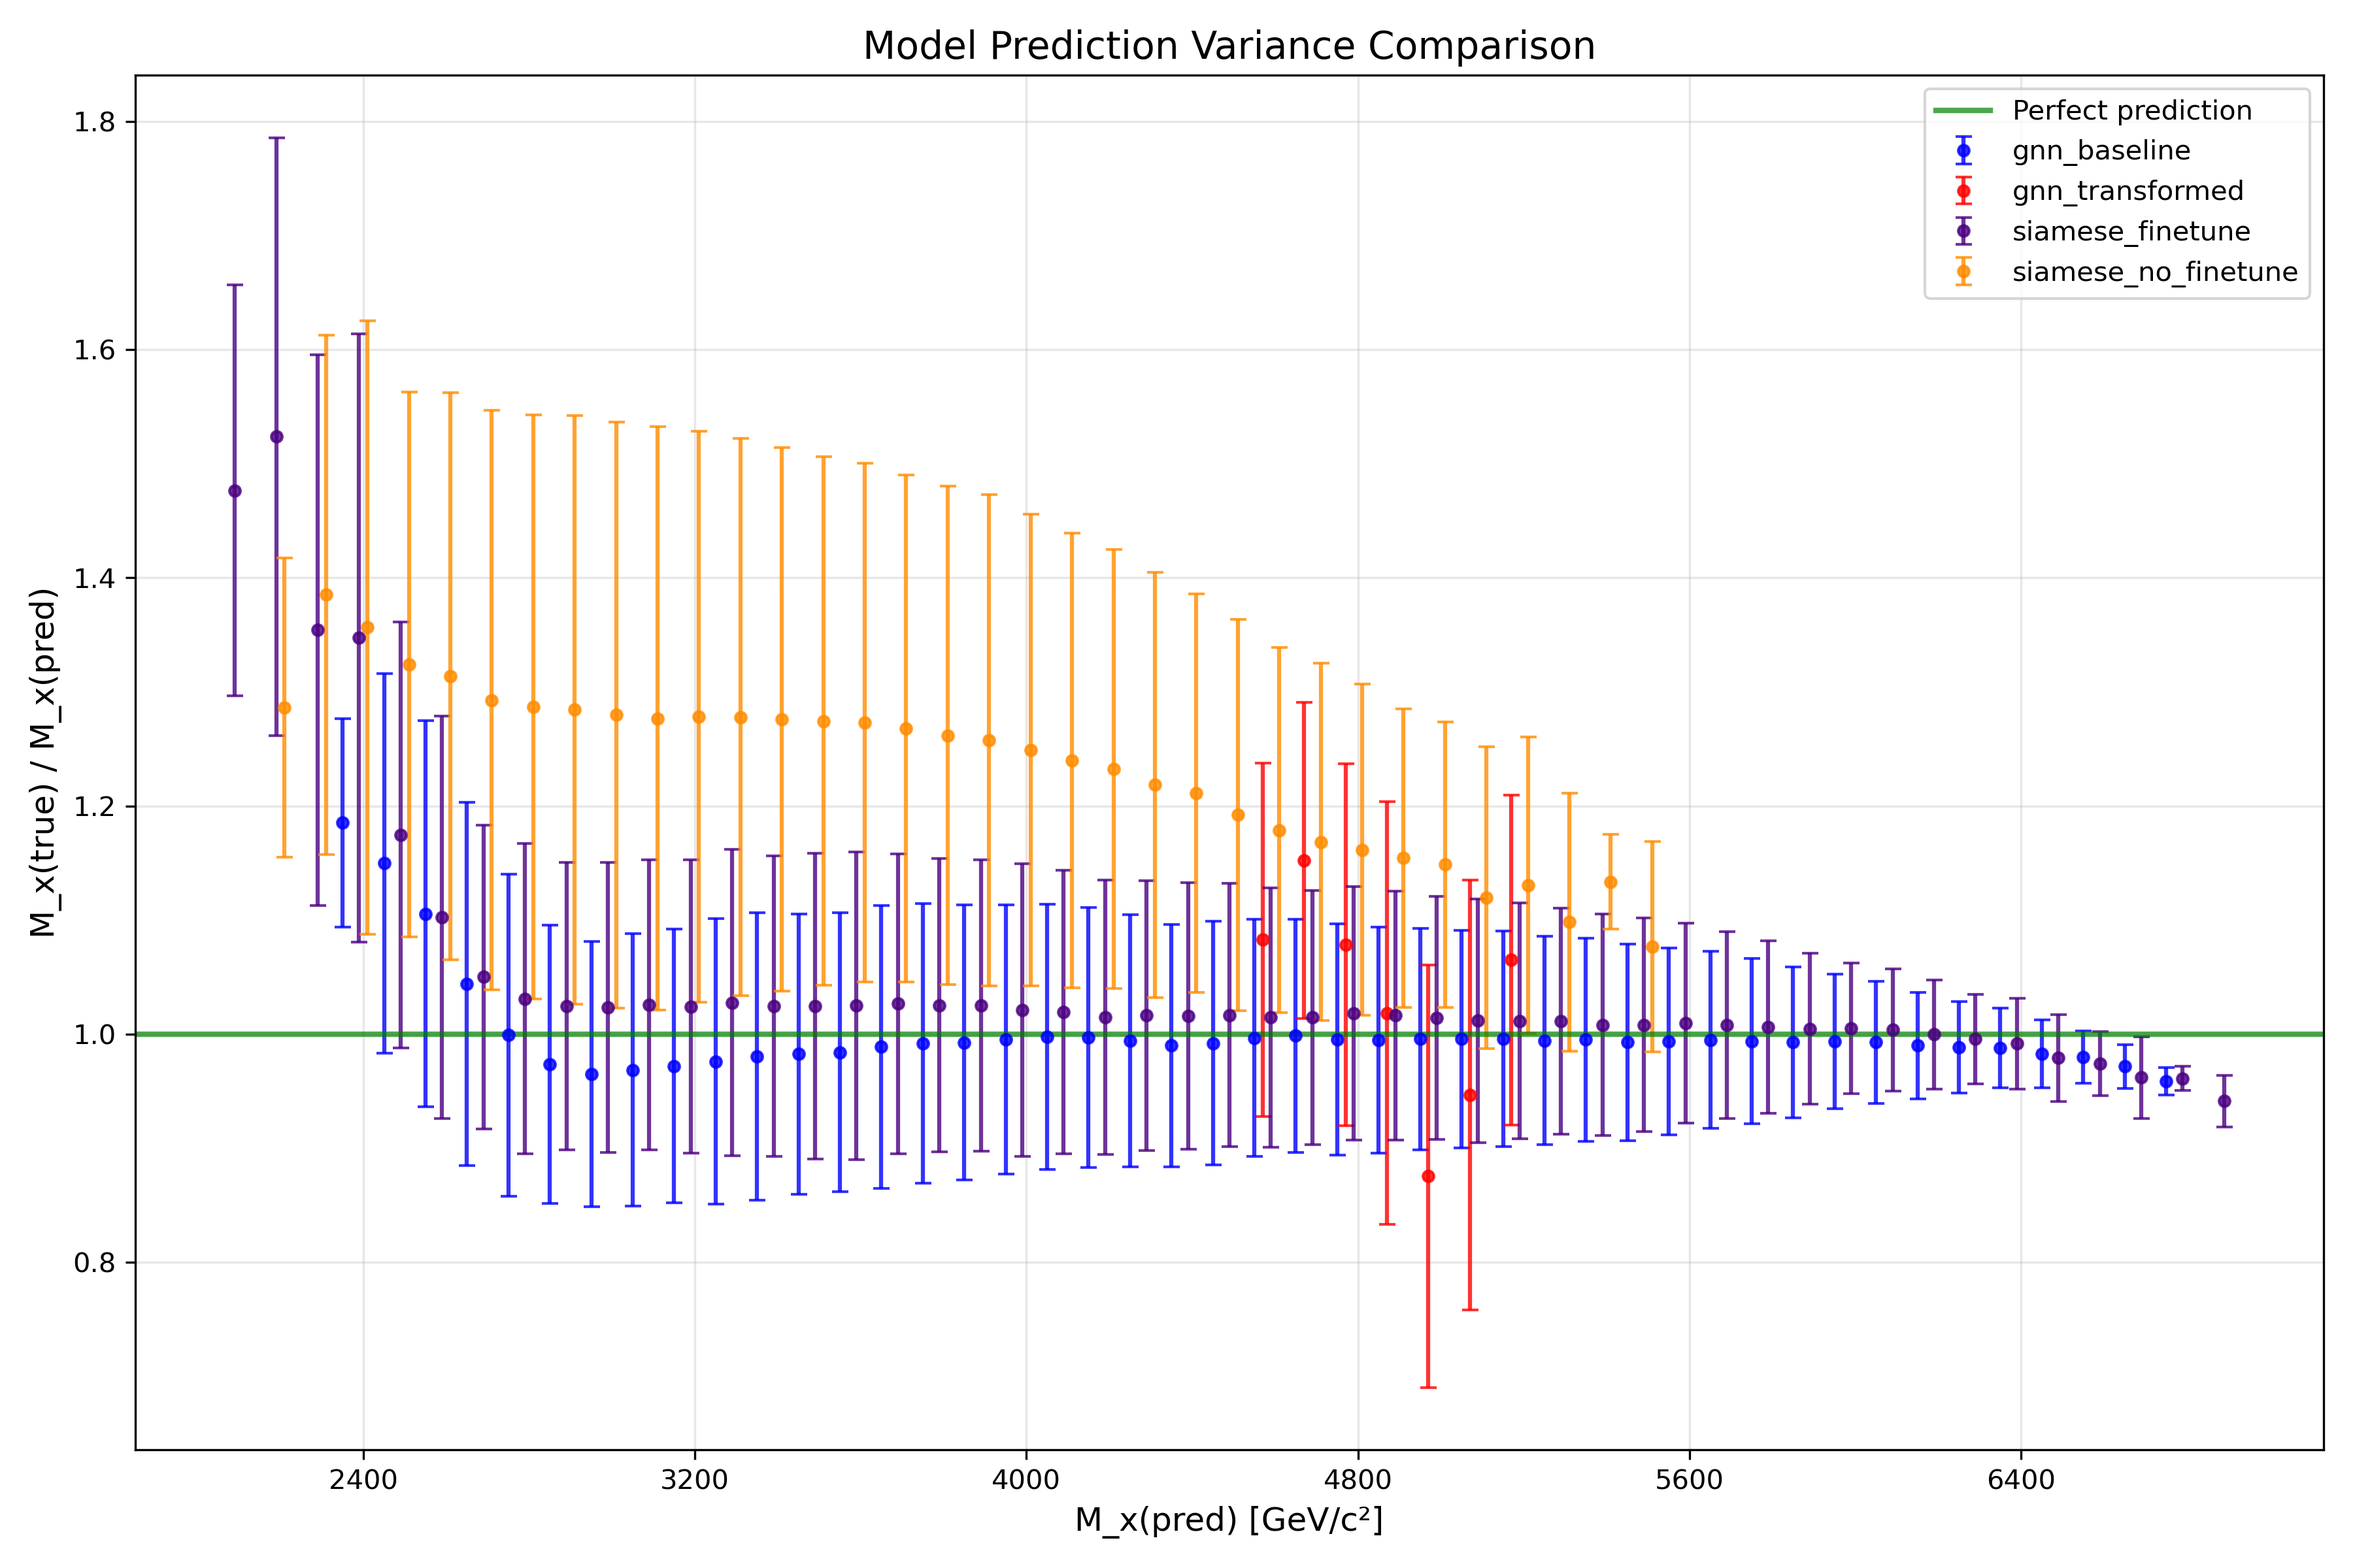
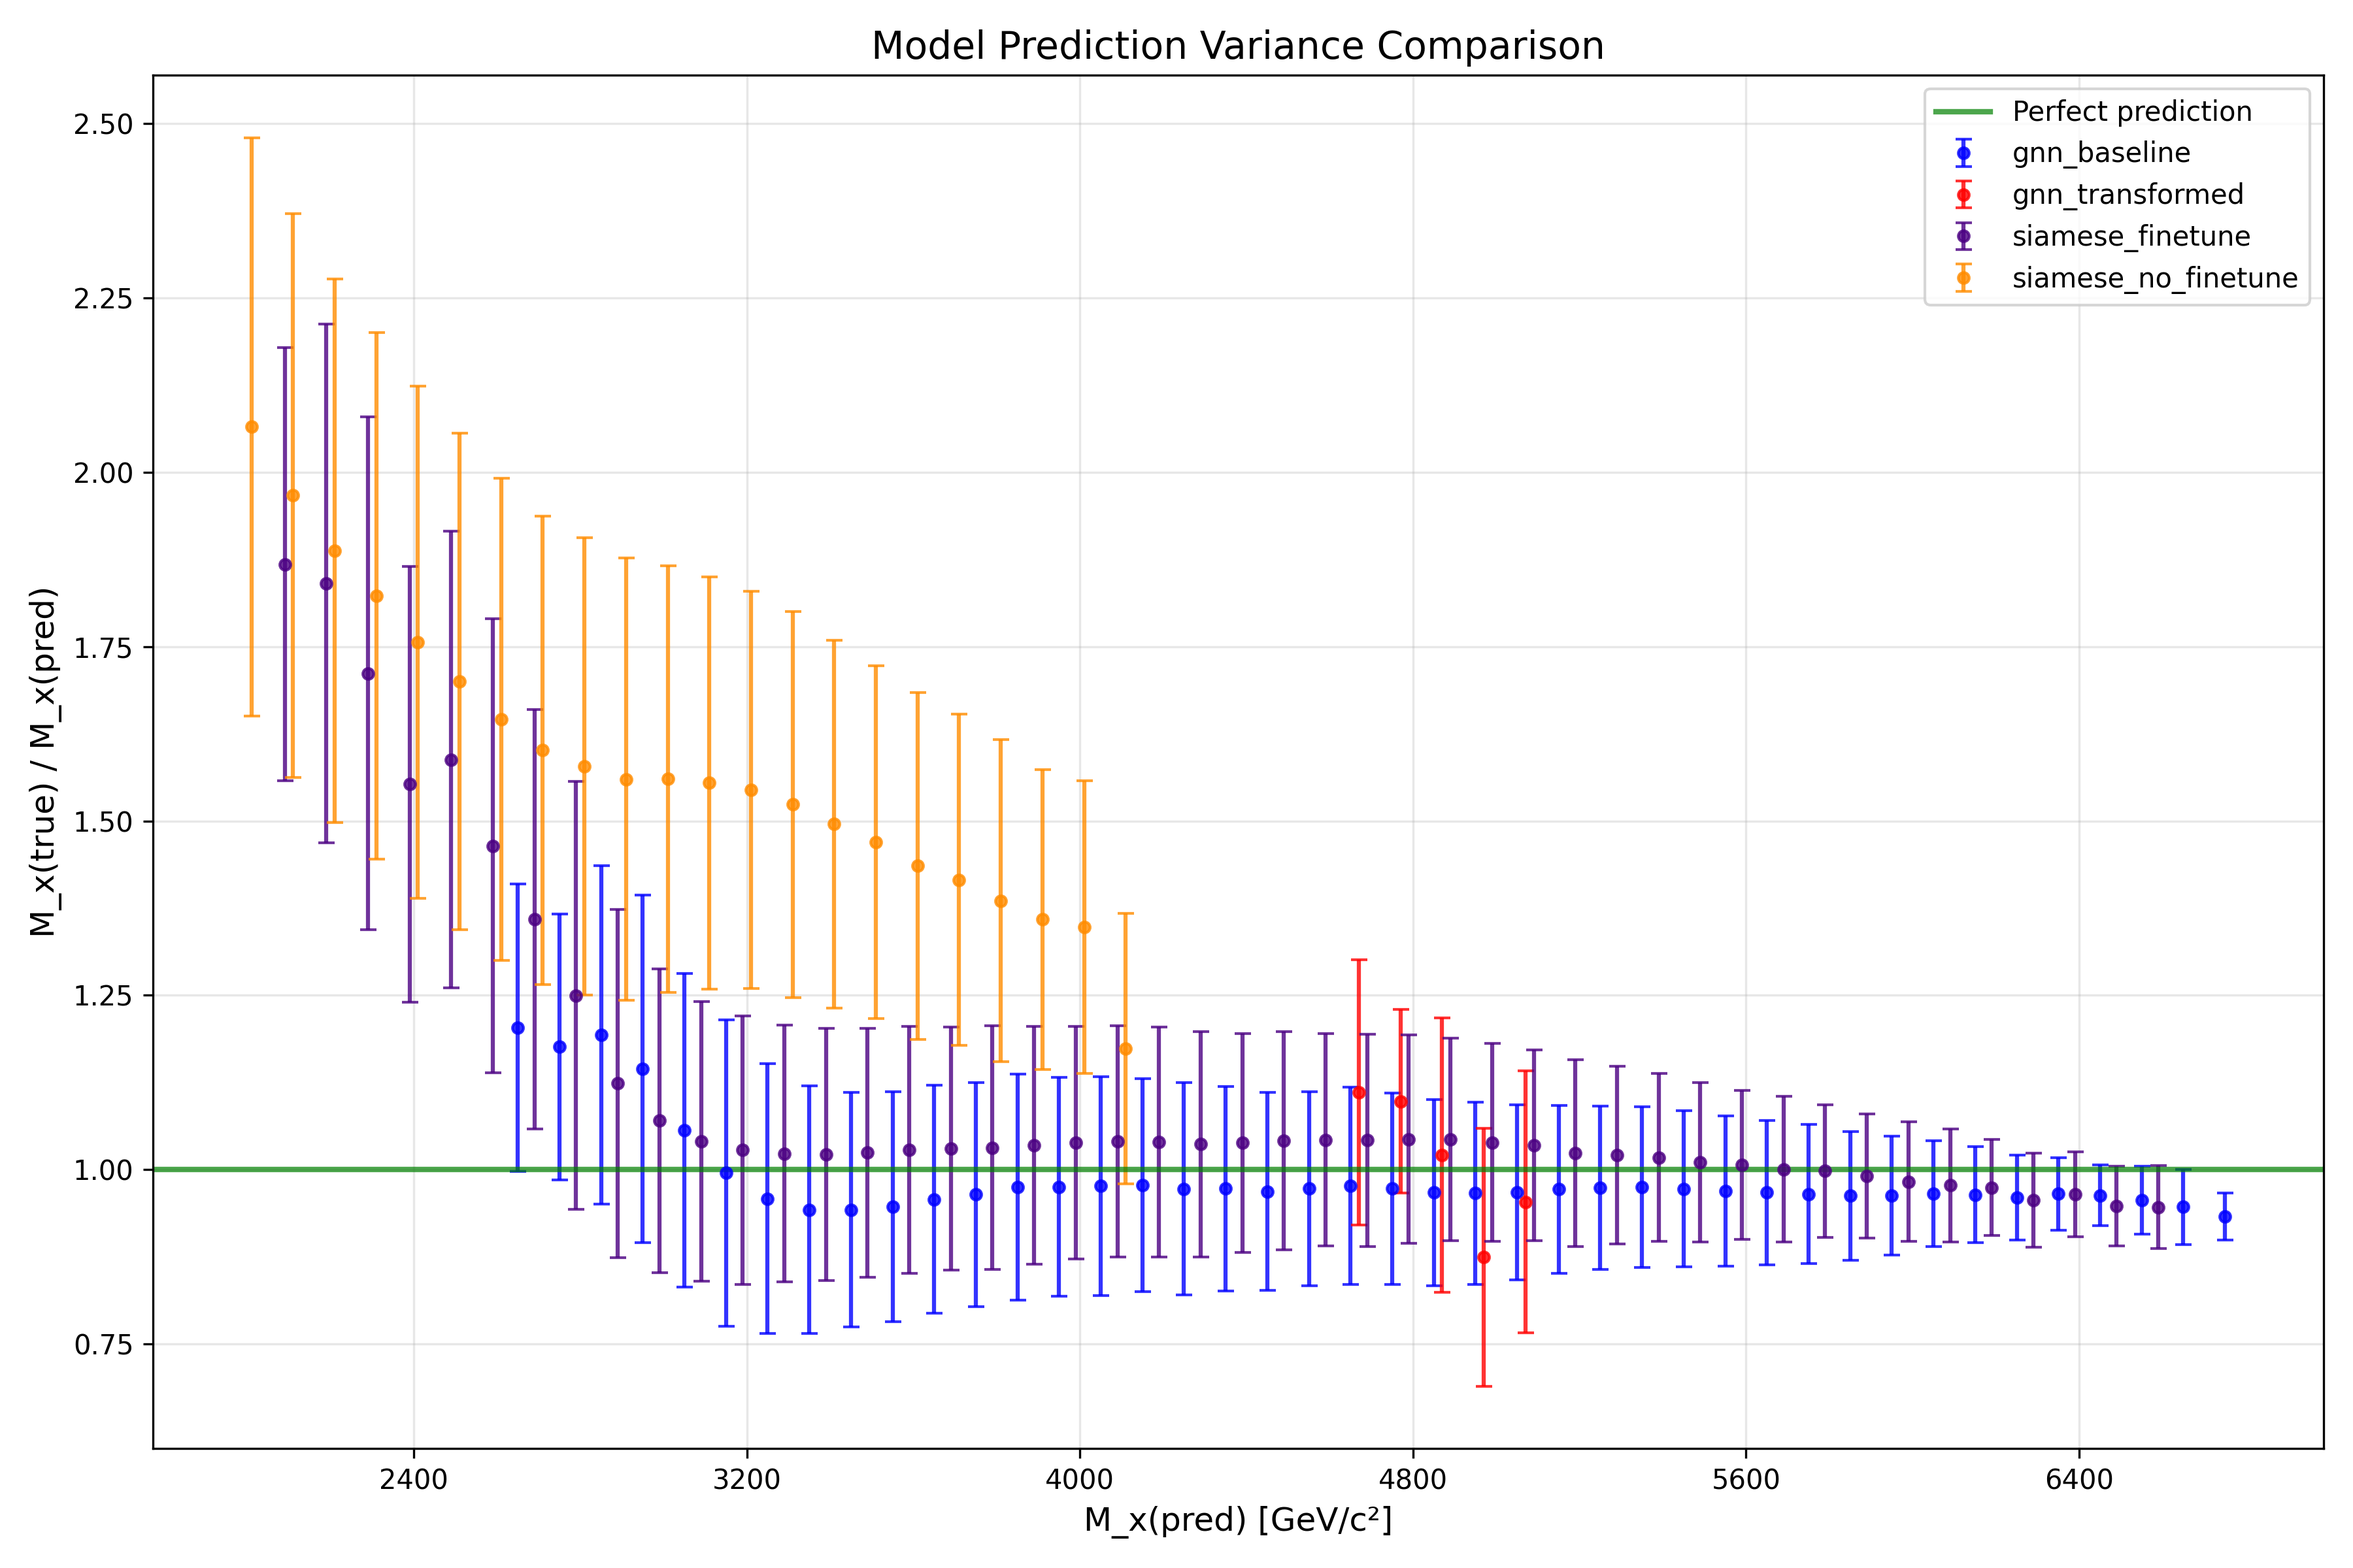
Increase strength of transformations

diff --git a/transformation.py b/transformation.py
@@ -27,39 +27,50 @@ class TransformationType(Enum):
     DELETE_PARTICLE = "delete_particle"
 
 
-def _delete_particle(x):
+def _delete_particle(x, **kwargs):
     """
-    Randomly delete a particle from the last dimension using vectorized operations
+    Randomly delete particles from the last dimension using vectorized operations
 
     Args:
         x (tf.Tensor): Shape of (None, num_features, num_particles)
+        **kwargs: Keyword arguments. Supports:
+            - num_particles_to_delete (int): Number of particles to delete (default: 1)
 
     Returns:
-        tf.Tensor: Shape of (None, num_features, num_particles - 1)
+        tf.Tensor: Shape of (None, num_features, num_particles - num_particles_to_delete)
     """
+    num_particles_to_delete = kwargs.get("num_particles_to_delete", 1)
+
     x_np = x.numpy()
     batch_size, num_features, num_particles = x_np.shape
 
-    indices_to_delete = np.random.randint(0, num_particles, size=batch_size)
+    # Ensure we don't try to delete more particles than available
+    num_to_delete = min(num_particles_to_delete, num_particles - 1)
 
-    result = np.zeros((batch_size, num_features, num_particles - 1))
+    result = np.zeros((batch_size, num_features, num_particles - num_to_delete))
 
     for i in range(batch_size):
-        idx = indices_to_delete[i]
+        # Randomly select multiple unique indices to delete
+        indices_to_delete = np.random.choice(
+            num_particles, size=num_to_delete, replace=False
+        )
 
-        # Create a mask for the randomly selected particle
+        # Create a mask for the randomly selected particles
         mask = np.ones(num_particles, dtype=bool)
-        mask[idx] = False
-        # Apply the mask to keep all particles except the one at idx
-        keep_indices = np.where(mask)[0]
-        result[i] = x_np[i][:, keep_indices]
+        mask[indices_to_delete] = False
+        # Apply the mask to keep all particles except those in indices_to_delete
+        result[i] = x_np[i][:, mask]
 
     return tf.convert_to_tensor(result)
 
 
-def _identity(x):
+def _identity(x, **kwargs):
     """
     No transformation
+
+    Args:
+        x: Input tensor
+        **kwargs: Ignored keyword arguments (for consistency with other transformations)
     """
     return x
 
@@ -72,7 +83,7 @@ TRANSFORMATION_MAP = {
 
 
 class ViewPairsGenerator:
-    def __init__(self, dataset, transformations=None):
+    def __init__(self, dataset, transformations=None, transformation_kwargs=None):
         """
         Constructor
 
@@ -80,8 +91,12 @@ class ViewPairsGenerator:
             dataset (tf.data.dataset): A Tensorflow Dataset that's batched
             transformations (list of TransformationType): List of transformations to apply.
                 If None, uses all available transformations.
+            transformation_kwargs (dict): Optional keyword arguments to pass to all transformation functions.
+                Each transformation will extract the parameters it needs.
+                Example: {'num_particles_to_delete': 3}
         """
         self.dataset = dataset
+        self.transformation_kwargs = transformation_kwargs or {}
 
         # Build transformation list based on user input
         if transformations is None:
@@ -96,9 +111,10 @@ class ViewPairsGenerator:
         for x_batch, y_batch in self.dataset:
             # Create two views with random transformations
             transform1 = np.random.choice(self.TRANSFORMATIONS)
-            view1 = transform1(x_batch)
+            view1 = transform1(x_batch, **self.transformation_kwargs)
+
             transform2 = np.random.choice(self.TRANSFORMATIONS)
-            view2 = transform2(x_batch)
+            view2 = transform2(x_batch, **self.transformation_kwargs)
 
             # Yield transformed views and original labels
             yield ((view1, view2), y_batch)
@@ -109,7 +125,7 @@ class ViewTransformedGenerator:
     Data generator that applies random transformations to create transformed views
     """
 
-    def __init__(self, dataset, transformations=None):
+    def __init__(self, dataset, transformations=None, transformation_kwargs=None):
         """
         Constructor
 
@@ -119,8 +135,12 @@ class ViewTransformedGenerator:
                 (None, 1) for y.
             transformations (list of TransformationType): List of transformations to apply.
                 If None, uses all available transformations.
+            transformation_kwargs (dict): Optional keyword arguments to pass to all transformation functions.
+                Each transformation will extract the parameters it needs.
+                Example: {'num_particles_to_delete': 3}
         """
         self.dataset = dataset
+        self.transformation_kwargs = transformation_kwargs or {}
 
         # Build transformation list based on user input
         if transformations is None:
@@ -133,13 +153,15 @@ class ViewTransformedGenerator:
         for x_batch, y_batch in self.dataset:
             # Create a view with a random transformation
             transform = np.random.choice(self.TRANSFORMATIONS)
-            transformed_view = transform(x_batch)
+            transformed_view = transform(x_batch, **self.transformation_kwargs)
 
             # Yield transformed view and original labels
             yield (transformed_view, y_batch)
 
 
-def create_transformed_pairs_dataset(X, y, batchsize, n_features, transformations=None):
+def create_transformed_pairs_dataset(
+    X, y, batchsize, n_features, transformations=None, transformation_kwargs=None
+):
     """
     Create a TensorFlow dataset with transformed pairs for contrastive learning
 
@@ -150,6 +172,9 @@ def create_transformed_pairs_dataset(X, y, batchsize, n_features, transformation
         n_features: Number of features
         transformations (list of TransformationType): List of transformations to apply.
             If None, uses all available transformations.
+        transformation_kwargs (dict): Optional keyword arguments to pass to all transformation functions.
+            Each transformation will extract the parameters it needs.
+            Example: {'num_particles_to_delete': 3}
 
     Returns:
         tf.data.Dataset: A repeating dataset of transformed pairs
@@ -157,7 +182,11 @@ def create_transformed_pairs_dataset(X, y, batchsize, n_features, transformation
     # Create TensorFlow datasets
     dataset = tf.data.Dataset.from_tensor_slices((X, y)).batch(batchsize)
 
-    view_pairs_generator = ViewPairsGenerator(dataset, transformations=transformations)
+    view_pairs_generator = ViewPairsGenerator(
+        dataset,
+        transformations=transformations,
+        transformation_kwargs=transformation_kwargs,
+    )
 
     output_signature = (
         (
@@ -174,7 +203,9 @@ def create_transformed_pairs_dataset(X, y, batchsize, n_features, transformation
     return transformed_dataset.repeat()
 
 
-def create_transformed_dataset(X, y, batchsize, n_features, transformations=None):
+def create_transformed_dataset(
+    X, y, batchsize, n_features, transformations=None, transformation_kwargs=None
+):
     """
     Create a TensorFlow dataset with random transformations
 
@@ -185,6 +216,9 @@ def create_transformed_dataset(X, y, batchsize, n_features, transformations=None
         n_features: Number of features
         transformations (list of TransformationType): List of transformations to apply.
             If None, uses all available transformations.
+        transformation_kwargs (dict): Optional keyword arguments to pass to all transformation functions.
+            Each transformation will extract the parameters it needs.
+            Example: {'num_particles_to_delete': 3}
 
     Returns:
         tf.data.Dataset: A repeating dataset of transformed data
@@ -193,7 +227,9 @@ def create_transformed_dataset(X, y, batchsize, n_features, transformations=None
     dataset = tf.data.Dataset.from_tensor_slices((X, y)).batch(batchsize)
 
     view_transformed_generator = ViewTransformedGenerator(
-        dataset, transformations=transformations
+        dataset,
+        transformations=transformations,
+        transformation_kwargs=transformation_kwargs,
     )
 
     output_signature = (

diff --git a/siamese/siamese.py b/siamese/siamese.py
@@ -54,6 +54,9 @@ def main():
         config["BATCHSIZE"],
         config["N_FEATURES"],
         transformations=[TransformationType.DELETE_PARTICLE],
+        transformation_kwargs={
+            "num_particles_to_delete": config["NUM_PARTICLES_TO_DELETE"]
+        },
     )
     train_batches = int(len(X_train) // config["BATCHSIZE"])
 
@@ -63,6 +66,9 @@ def main():
         config["BATCHSIZE"],
         config["N_FEATURES"],
         transformations=[TransformationType.DELETE_PARTICLE],
+        transformation_kwargs={
+            "num_particles_to_delete": config["NUM_PARTICLES_TO_DELETE"]
+        },
     )
     val_batches = int(len(X_val) / config["BATCHSIZE"])
 
@@ -72,6 +78,9 @@ def main():
         config["BATCHSIZE"],
         config["N_FEATURES"],
         transformations=[TransformationType.DELETE_PARTICLE],
+        transformation_kwargs={
+            "num_particles_to_delete": config["NUM_PARTICLES_TO_DELETE"]
+        },
     )
     test_batches = int(len(X_test) // config["BATCHSIZE"])
 

diff --git a/model_evaluation/transformed_full_dataset.py b/model_evaluation/transformed_full_dataset.py
@@ -44,6 +44,9 @@ def process_transformed_full_dataset_predictions(models, X, y, y_scaler, config)
             batchsize=config["BATCHSIZE"],
             n_features=config["N_FEATURES"],
             transformations=[TransformationType.DELETE_PARTICLE],
+            transformation_kwargs={
+                "num_particles_to_delete": config["NUM_PARTICLES_TO_DELETE"]
+            },
         )
         test_transformed = test_transformed.take(test_batches)
 
